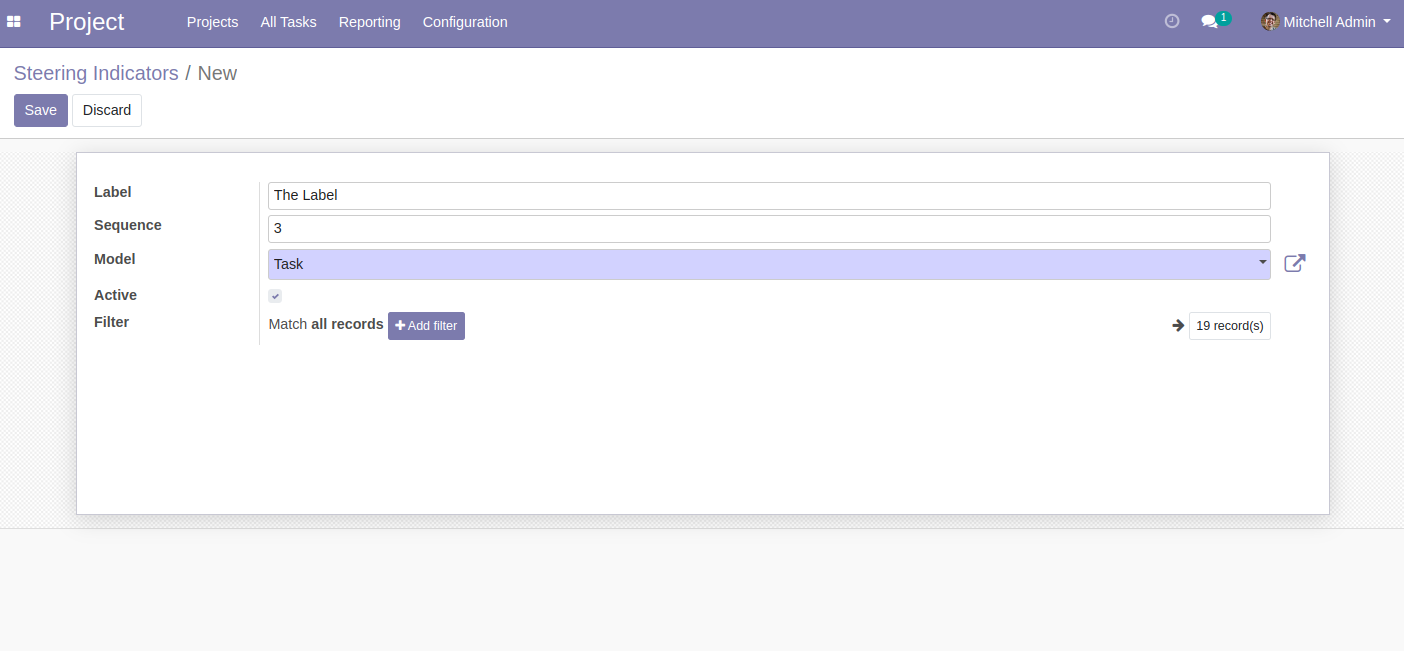
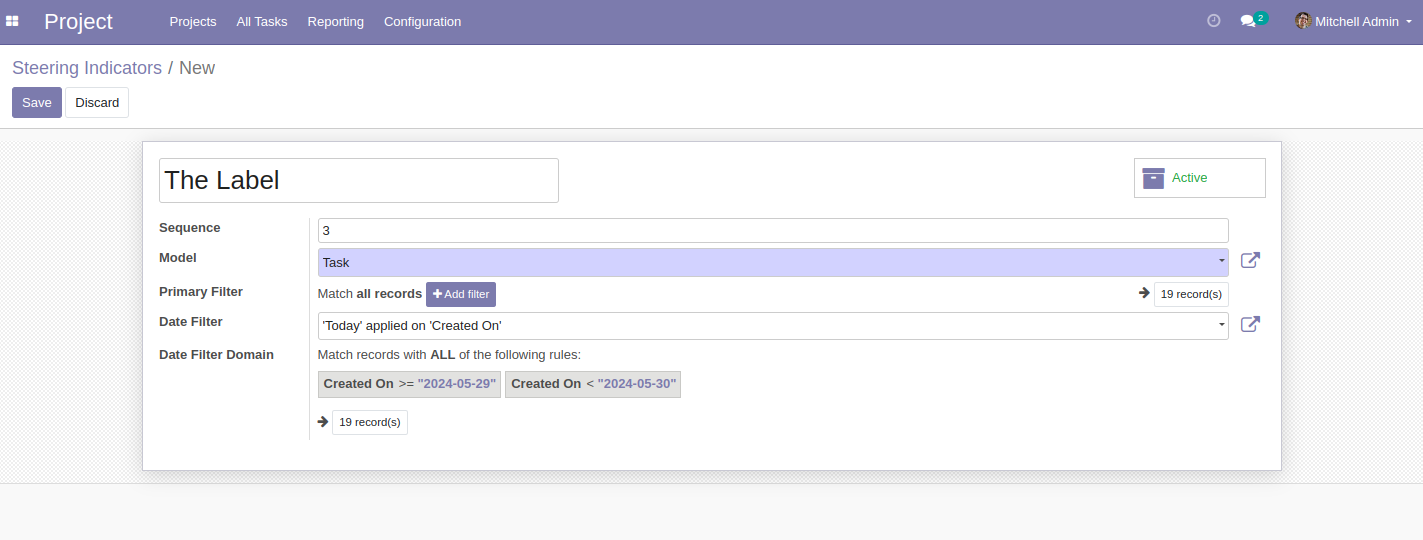
TA#56217 [IMP] New features

Changed region(s): [[0.0, 0.0, 1.0, 0.8296], [0.0919, 0.8593, 0.8882, 0.8889]]

diff --git a/meeting_minutes_project_steering/tests/test_project_steering.py b/meeting_minutes_project_steering/tests/test_project_steering.py
@@ -2,6 +2,7 @@
 # License AGPL-3.0 or later (http://www.gnu.org/licenses/agpl).
 
 from odoo.tests.common import SavepointCase
+from odoo import fields
 
 
 class TestProjectSteering(SavepointCase):
@@ -16,7 +17,7 @@ class TestProjectSteering(SavepointCase):
                 "name": "Steering KPI 1",
                 "sequence": 2,
                 "model_id": task_model,
-                "filter_domain": '["&",["name","ilike","Room"],["user_id","!=",False]]',
+                "primary_filter_domain": '["&",["name","ilike","Room"],["user_id","!=",False]]',
             }
         )
 
@@ -25,7 +26,7 @@ class TestProjectSteering(SavepointCase):
                 "name": "Steering KPI 2",
                 "sequence": 1,
                 "model_id": task_model,
-                "filter_domain": '["&",["date_deadline","<","2024-01-03"],["date_deadline","!=",False]]',
+                "primary_filter_domain": '["&",["date_deadline","<","2024-01-03"],["date_deadline","!=",False]]',
             }
         )
 
@@ -34,7 +35,7 @@ class TestProjectSteering(SavepointCase):
                 "name": "Steering KPI 3",
                 "sequence": 3,
                 "model_id": task_model,
-                "filter_domain": '[["planned_hours",">=",4]]',
+                "primary_filter_domain": '[["planned_hours",">=",4]]',
             }
         )
 
@@ -44,7 +45,7 @@ class TestProjectSteering(SavepointCase):
                 "sequence": 5,
                 "active": False,
                 "model_id": task_model,
-                "filter_domain": "[]",
+                "primary_filter_domain": "[]",
             }
         )
 
@@ -80,6 +81,50 @@ class TestProjectSteering(SavepointCase):
                 "date_deadline": "2024-01-02",
             }
         )
+
+    def test_date_filter_domain(self):
+        # create a search date range filter
+        secondary_domain = self.env["search.date.range.filter"].create(
+            {
+                "range_id": self.env.ref("web_search_date_range.range_today").id,
+                "field_id": self.env.ref(
+                    "project.field_project_task__date_deadline"
+                ).id,
+                "model_id": self.env.ref("project.model_project_task").id,
+            }
+        )
+
+        tasks = [self.task_1, self.task_2, self.task_3, self.task_4]
+        for task in tasks:
+            task.date_deadline = fields.Date.today()
+
+        steering_kpis = [
+            self.steering_kpi_1,
+            self.steering_kpi_2,
+            self.steering_kpi_3,
+        ]
+        for kpi in steering_kpis:
+            kpi.date_filter_domain_id = secondary_domain.id
+
+        minutes = self._create_minutes()
+
+        minutes.project_steering_enabled = True
+        minutes.load_steering_data()
+        minutes.refresh()
+
+        # Three sections to have
+        self.assertEqual(
+            len(
+                minutes.project_steering_ids.filtered(
+                    lambda t: t.display_type == "line_section"
+                ).ids
+            ),
+            2,
+        )
+
+        # The order of section must be with the following order
+        self.assertEqual(minutes.project_steering_ids[0].name, "Steering KPI 1")
+        self.assertEqual(minutes.project_steering_ids[6].name, "Steering KPI 3")
 
     def test_project_steering_load_data(self):
         minutes = self._create_minutes()

diff --git a/meeting_minutes_project_steering/models/project_meeting_minutes.py b/meeting_minutes_project_steering/models/project_meeting_minutes.py
@@ -1,8 +1,11 @@
 # Copyright 2023 Numigi (tm) and all its contributors (https://bit.ly/numigiens)
 # License AGPL-3.0 or later (http://www.gnu.org/licenses/agpl).
 
-from odoo import fields, models, api, _
+from odoo import fields, models
 from odoo.tools.safe_eval import safe_eval
+
+# !!! Do not remove this import, it is used in the eval
+from dateutil.relativedelta import relativedelta
 
 
 class ProjectMeetingMinutes(models.Model):
@@ -31,16 +34,31 @@ class ProjectMeetingMinutes(models.Model):
 
         for kpi in steering_kpis:
             domain = [("project_id", "=", self.project_id.id or False)]
-            if kpi.filter_domain:
-                domain += safe_eval(kpi.filter_domain)
+            if kpi.primary_filter_domain:
+                domain += safe_eval(kpi.primary_filter_domain)
             self._add_record_from_domain(domain, kpi)
 
     def _add_record_from_domain(self, domain, kpi):
-        # Add the section from KPI name
-        self.project_steering_ids = [
-            (0, 0, {"name": kpi.name, "display_type": "line_section"}),
-        ]
         records = self.env[kpi.model].search(domain)
+        if records:
+            # Add the section from KPI name
+            self.project_steering_ids = [
+                (0, 0, {"name": kpi.name, "display_type": "line_section"}),
+            ]
+
+        # Filter with date_filter_domain if set and result of primary filter not empty
+        if kpi.date_filter_domain_id and records:
+            domain = kpi.date_filter_domain_id.domain
+            normalized_domain = (
+                domain.replace("\n", "")
+                .replace(" ", "")
+                .replace("context_today()", "fields.Date.context_today(self)")
+            )
+            # Execute all the python code in normalized_domain
+            # and replace it by its result
+            last_domain = eval(normalized_domain)
+            records = records.search(last_domain)
+
         # Append data after section
         self._prepare_data_in_section(records)
 

diff --git a/meeting_minutes_project_steering/models/project_steering_kpi.py b/meeting_minutes_project_steering/models/project_steering_kpi.py
@@ -1,7 +1,7 @@
 # Copyright 2024 Numigi (tm) and all its contributors (https://bit.ly/numigiens)
 # License AGPL-3.0 or later (http://www.gnu.org/licenses/agpl).
 
-from odoo import fields, models
+from odoo import api, fields, models, _
 
 
 class ProjectSteeringKpi(models.Model):
@@ -21,7 +21,38 @@ class ProjectSteeringKpi(models.Model):
         ondelete="set null",
     )
     active = fields.Boolean(default=True)
-    filter_domain = fields.Char(string="Filter")
+    primary_filter_domain = fields.Char(string="Primary Filter")
+    date_filter_domain_id = fields.Many2one(
+        "search.date.range.filter",
+        string="Date Filter",
+        domain="[('model_id', '=', model_id)]",
+        store=True,
+        help="Filter domain applied on the selected model and the primary filter.",
+    )
+    date_filter_domain = fields.Char(
+        compute="_get_domain", string="Date Filter Domain", store=True
+    )
 
     def _get_allowed_model(self):
         return [("model", "in", ("project.task", "project.project"))]
+
+    @api.depends("date_filter_domain_id")
+    def _get_domain(self):
+        for record in self:
+            record.date_filter_domain = record.date_filter_domain_id.domain
+
+
+class SearchDateRangeFilter(models.Model):
+    _inherit = "search.date.range.filter"
+
+    @api.multi
+    def name_get(self):
+        result = []
+        for record in self:
+            name = _("'%s' applied on '%s'") % (
+                record.range_id.label,
+                record.field_id.field_description,
+            )
+
+            result.append((record.id, name))
+        return result

diff --git a/meeting_minutes_project_steering/__manifest__.py b/meeting_minutes_project_steering/__manifest__.py
@@ -13,6 +13,7 @@
         "meeting_minutes_project",
         "project_form_with_dates",
         "project_task_date_planned",
+        "web_search_date_range",
     ],
     "summary": "Using project meeting minutes for steering project.",
     "data": [

diff --git a/meeting_minutes_project_steering/README.rst b/meeting_minutes_project_steering/README.rst
@@ -25,9 +25,11 @@ When I click on the `Create` button, I arrive at a form view offering the follow
 -Sequence
 -Model
 -Active
--Filter
+-Primary Filter
+-Date Filter
 
 Notice : `Model` field have only two possible options, `Project` and `Task`.
+`Date Filter` will be applied after the `Primary Filter` to filter the records.
 
 .. image:: static/description/steering_indicator_form.png
 
